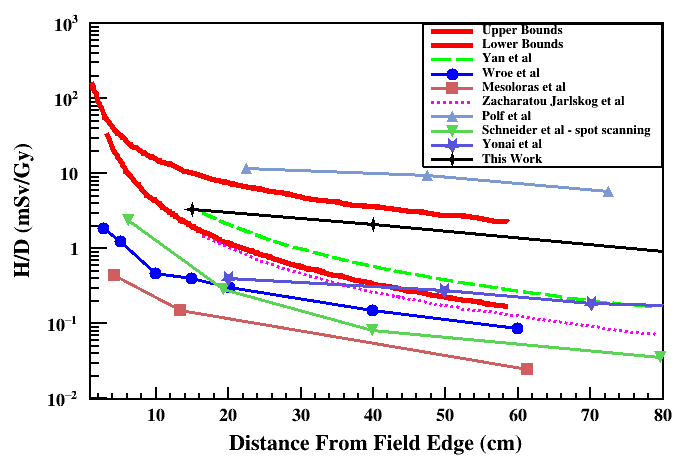
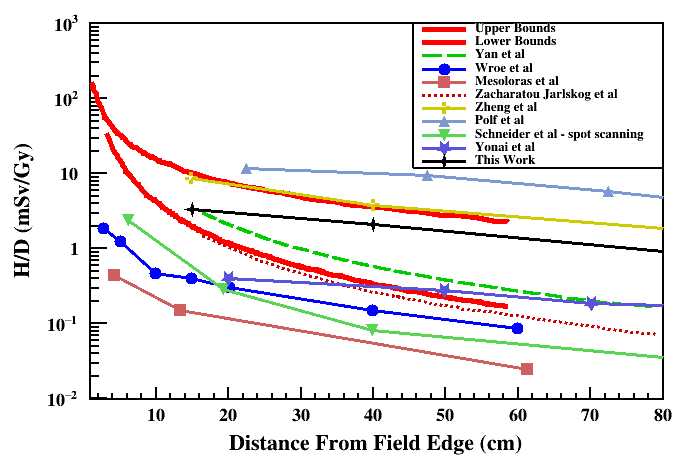
add Zheng data

diff --git a/HperD10cm/preHperD/paperData/HDall.C b/HperD10cm/preHperD/paperData/HDall.C
@@ -84,14 +84,24 @@ void HDall()
     t8->Draw("y_coordinate:x","","goff");
     TGraph *g8=new TGraph(t8->GetSelectedRows(),t8->GetV2(),t8->GetV1());
     g8->SetLineWidth(5);
-    g8->SetLineColor(kRed);
+    g8->SetLineColorAlpha(kRed,0.35);
 
     TTree *t9=new TTree("t","tree form lowerBounds.CSV");
     t9->ReadFile("lowerBounds.CSV","x/D:y/D:y_coordinate/D");
     t9->Draw("y_coordinate:x","","goff");
     TGraph *g9=new TGraph(t9->GetSelectedRows(),t9->GetV2(),t9->GetV1());
     g9->SetLineWidth(5);
-    g9->SetLineColor(kRed);
+    g9->SetLineColorAlpha(kRed,0.35);
+
+    TTree *t10=new TTree("t10","tree form Zheng.CSV");
+    t10->ReadFile("Zheng.CSV","x/D:y/D:y_coordinate/D");
+    t10->Draw("y_coordinate:x","","goff");
+    TGraph *g10=new TGraph(t10->GetSelectedRows(),t10->GetV2(),t10->GetV1());
+    g10->SetLineWidth(3);
+    g10->SetLineColor(kYellow+1);
+    g10->SetMarkerStyle(49);
+    g10->SetMarkerSize(1.5);
+    g10->SetMarkerColor(kYellow+1);
 
     gPad->SetLogy();
     TMultiGraph *mgp=new TMultiGraph();
@@ -99,6 +109,7 @@ void HDall()
     mgp->Add(g9,"c");    
     mgp->Add(g1,"c");
     mgp->Add(g4,"c");
+    mgp->Add(g10,"pl");
     mgp->Add(g2,"pl");    
     mgp->Add(g3,"pl");
     mgp->Add(g5,"pl");
@@ -120,6 +131,7 @@ void HDall()
     leg->AddEntry(g2,"Wroe et al","pl");
     leg->AddEntry(g3,"Mesoloras et al","pl");
     leg->AddEntry(g4,"Zacharatou Jarlskog et al","l");
+    leg->AddEntry(g10,"Zheng et al","pl");
     leg->AddEntry(g5,"Polf et al","pl");
     leg->AddEntry(g6,"Schneider et al - spot scanning","pl");
     leg->AddEntry(g7,"Yonai et al","pl");
